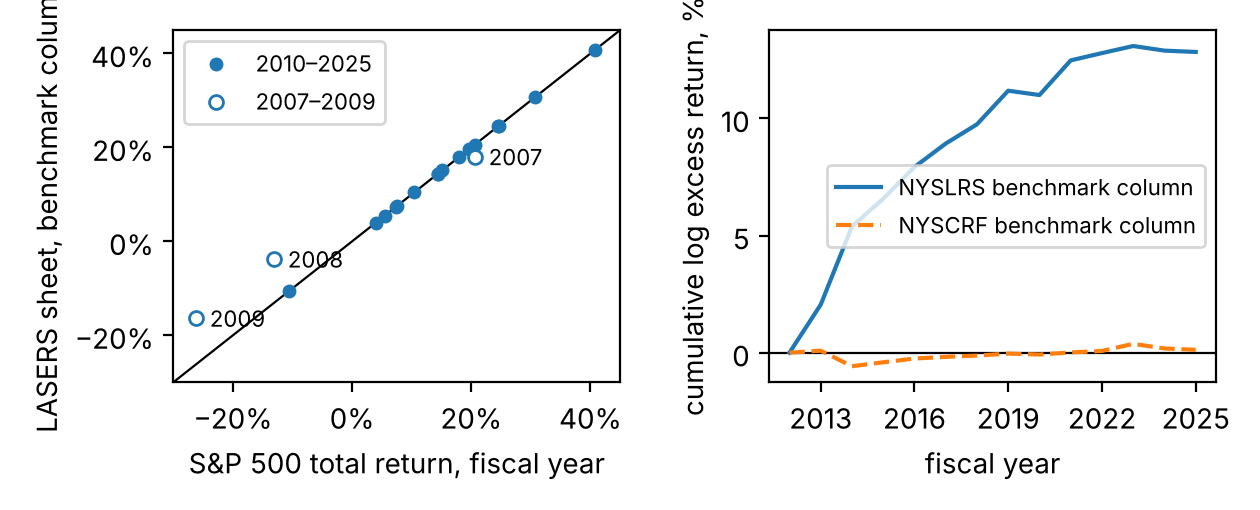
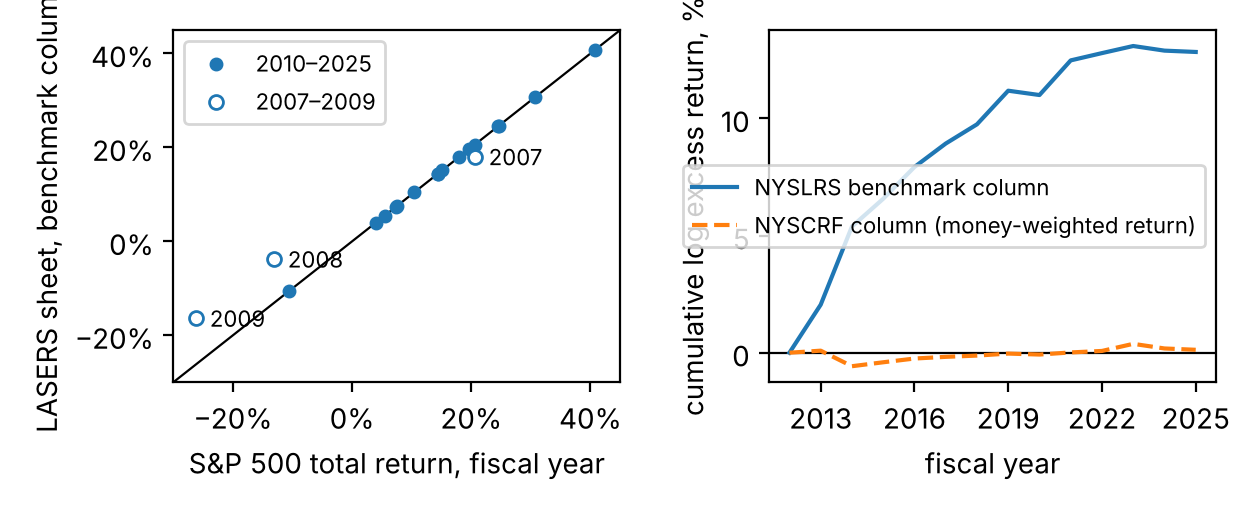
The NYSCRF benchmark column is the Fund's money-weighted return
For fiscal 2015-2023 the NYSCRF sheet's benchmark column equals, to the basis point, the money-weighted
rate of return net of investment expenses in the schedule of investment returns of the NYSLRS Annual
Comprehensive Financial Reports; 2024 is the Fund's time-weighted return and 2025 its assumed rate of
return. The NYSLRS sheet's column shares the 2023-2025 values and cannot be traced to the Fund's reports
for 2010-2022, which give no total-fund benchmark. README, the data-problem notes in cis.panel and the
legend of Figure 1 say so; the --ny NYSCRF option now documents that it measures the fund against itself.
Figures regenerated; no number changed.

Changed region(s): [[0.5262, 0.3235, 0.9595, 0.5]]

diff --git a/src/cis/panel.py b/src/cis/panel.py
@@ -117,7 +117,9 @@ DATA_PROBLEMS = {
     "PA SERS": "duplicates the PA PSERS sheet: identical actual returns in 19 of 22 common years and "
                "identical benchmarks in 20 (the two systems report different returns)",
     "NYSCRF": "the New York State Common Retirement Fund, which is the NYSLRS asset pool: actual returns "
-              "identical to the NYSLRS sheet in all 13 common years, with a different benchmark column",
+              "identical to the NYSLRS sheet in all 13 common years; its benchmark column is the Fund's own "
+              "money-weighted rate of return (ACFR schedule of investment returns, fiscal 2015-2023), not a "
+              "benchmark",
 }
 
 
@@ -127,9 +129,10 @@ def clean_panel(panel: pd.DataFrame, ny_benchmark: str = "NYSLRS") -> pd.DataFra
     Drops LASERS (benchmark is the S&P 500), NJ TPAF and NJDRPB (the New Jersey Common Pension Fund
     appears three times; NJ PERS is kept, whose benchmark agrees with NJ TPAF's in every common year),
     PA SERS (a copy of PA PSERS for 20 of 22 years) and NYSCRF (the same fund as NYSLRS). The New York
-    fund is kept once, under the name NYSLRS, measured against the NYSLRS sheet's benchmark by default;
-    with ny_benchmark="NYSCRF" it is measured instead against the NYSCRF sheet's benchmark over the 13
-    years that sheet covers.
+    fund is kept once, under the name NYSLRS, measured against the NYSLRS sheet's benchmark by default
+    (a column the Fund's reports do not document for 2010-2022); with ny_benchmark="NYSCRF" it is measured
+    instead against the NYSCRF sheet's column over the 13 years that sheet covers, which is the Fund's
+    own money-weighted return, so this option measures the fund against itself.
     """
     out = panel[~panel["fund"].isin(DATA_PROBLEMS)].copy()
     if ny_benchmark == "NYSCRF":

diff --git a/paper/make_figures_2_4.py b/paper/make_figures_2_4.py
@@ -58,7 +58,7 @@ c1 = np.concatenate([[0], np.cumsum(d1.values)]); c2 = np.concatenate([[0], np.c
 t_axis = np.concatenate([[common[0] - 1], common])
 ax.axhline(0, color="k", linewidth=0.8)
 ax.plot(t_axis, 100 * c1, "C0-", label="NYSLRS benchmark column")
-ax.plot(t_axis, 100 * c2, "C1--", label="NYSCRF benchmark column")
+ax.plot(t_axis, 100 * c2, "C1--", label="NYSCRF column (money-weighted return)")
 ax.set_xlabel("fiscal year"); ax.set_ylabel("cumulative log excess return, %")
 ax.set_xticks([2013, 2016, 2019, 2022, 2025])
 ax.legend(loc="center right", fontsize=8)

diff --git a/README.md b/README.md
@@ -101,12 +101,16 @@ for five funds and determines its sign for two.
 `scripts/data_checks.py` compares every sheet's columns with each other and with the S&P 500. Five of the
 47 rows are not independent, correctly benchmarked plans: the **LASERS** benchmark column is the S&P 500
 total return for fiscal 2010–2025 (16 years to the decimal); **NYSCRF** is the same fund as **NYSLRS**
-(identical returns in all 13 common years) under a different benchmark column, against which the fund's
-*t* is 0.15 instead of 4.24; the three **New Jersey** rows are one investment programme; the **PA SERS**
-sheet copies PA PSERS in 20 of 22 years. `cis.panel.clean_panel` reduces the panel to 42 programmes, and
-`scripts/run_everything.py --clean` reproduces every number in the paper on it (`--ny NYSCRF` measures
-New York against the other column). The article's two extreme results — a plan at 0% and a plan at
-100% — are these two benchmark columns.
+(identical returns in all 13 common years) and its "benchmark" column is the Fund's own money-weighted
+rate of return (for fiscal 2015–2023 it equals, to the basis point, the schedule of investment returns in
+the System's Annual Comprehensive Financial Reports; 2024 is the time-weighted return and 2025 the assumed
+rate of return), against which the fund's *t* is 0.15 instead of 4.24; the NYSLRS sheet's benchmark
+column shares those 2023–2025 values and could not be traced to the Fund's reports for 2010–2022; the
+three **New Jersey** rows are one investment programme; the **PA SERS** sheet copies PA PSERS in 20 of 22
+years. `cis.panel.clean_panel` reduces the panel to 42 programmes, and `scripts/run_everything.py --clean`
+reproduces every number in the paper on it (`--ny NYSCRF` measures New York against the money-weighted
+column, a fund against itself). The article's two extreme results — a plan at 0% and a plan at 100% —
+are the S&P 500 column and the untraceable NYSLRS column.
 
 ## Nine further plans (second workbook, October 2026)
 
